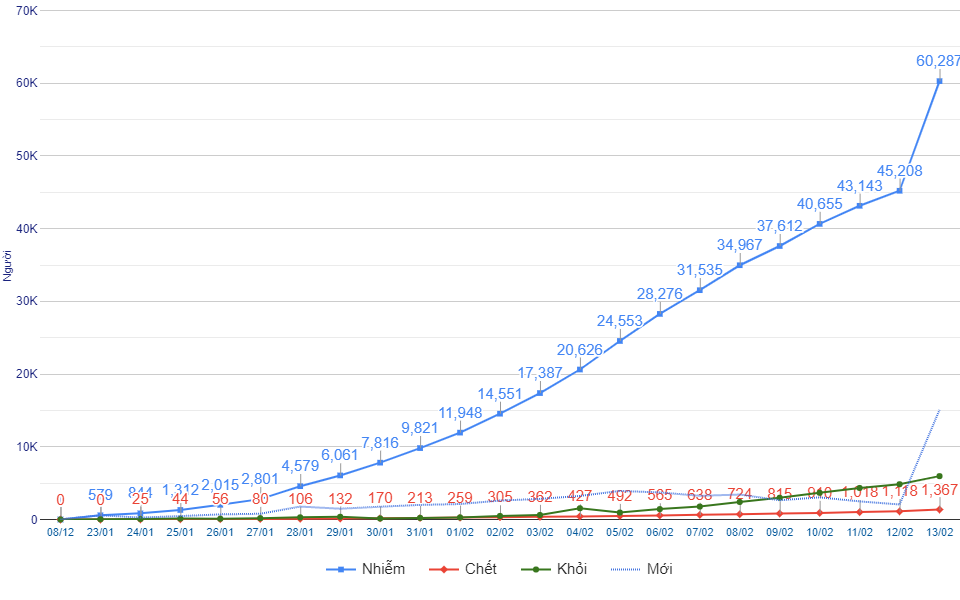
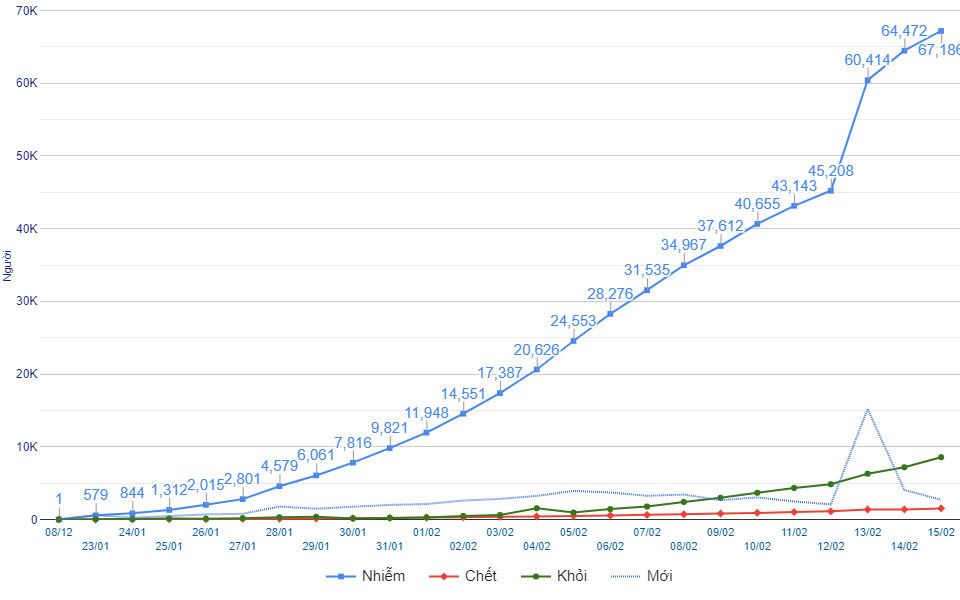
delete tabletopjs, update chart image

Changed region(s): [[0.0312, 0.27, 1.0, 0.99], [0.875, 0.03, 1.0, 0.15]]

diff --git a/app.min.js b/app.min.js
@@ -1,1 +1,1 @@
-function getData(){var URL="1apbJy54knVUXcKpuerSrgkADdZaGJ05Xh3pqkhHZZsI";Tabletop.init({key:URL,callback:showInfo,simpleSheet:!0})}var hasComfirmed=[],dt;document.addEventListener("DOMContentLoaded",getData()),google.charts.load("current",{packages:["corechart","line"]});var cols=[];function showInfo(data){document.getElementById("updatetime").innerText!=data[0]["Cập nhật"]&&(dt=data,document.getElementById("updatetime").innerText=dt[0]["Cập nhật"],drawTable(),document.getElementById("map").innerHTML="",setMap(),google.charts.setOnLoadCallback(drawGraph))}function drawGraph(){var data=new google.visualization.DataTable;for(data.addColumn("string","Ngày"),data.addColumn("number","Nhiễm"),data.addColumn({type:"number",role:"annotation"}),data.addColumn("number","Chết"),data.addColumn({type:"number",role:"annotation"}),data.addColumn("number","Khỏi"),data.addColumn("number","Mới"),i=0;i<dt.length;i++){var nn=parseInt(dt[i]["Nghi Nhiễm"]),tv=parseInt(dt[i]["Tử vong"]),kb=parseInt(dt[i]["Khỏi bệnh"]);data.addRows([[dt[i]["Ngày"],nn,nn,tv,tv,kb,parseInt(dt[i]["Tăng nhiễm"])]])}var options={hAxis:{title:null,textStyle:{color:"#01579b",fontSize:11,fontName:"Arial"},titleTextStyle:{color:"#01579b",fontSize:11,fontName:"Arial",bold:!1,italic:!0},slantedTextAngle:90},vAxis:{title:"Người",textStyle:{color:"#1a237e",fontSize:12,bold:!1},titleTextStyle:{color:"#1a237e",fontSize:11,bold:!1,italic:!1},format:"short"},height:600,annotations:{0:{style:"point"}},chartArea:{left:40,top:10,width:"100%",height:"85%"},colors:["#4285f4","#ea4335","#38761d","#4374e0"],legend:{position:"bottom"},series:{0:{pointSize:6,pointShape:"square"},1:{pointSize:6,pointShape:"diamond"},2:{pointSize:4,pointShape:"circle"},3:{lineDashStyle:[1,1]}}},chart=new google.visualization.LineChart(document.getElementById("chart_div"));google.visualization.events.addListener(chart,"ready",(function(){document.getElementById("imageChart").setAttribute("href",chart.getImageURI()),document.getElementById("imageChart").setAttribute("download",`ncov${document.getElementById("updatetime").innerText}.png`)})),chart.draw(data,options);for(var t=document.getElementsByClassName("toggle"),i=0;i<t.length;i++)t[i].onclick=function(e){toggle(this)},cols.length<4?cols[t[i].getAttribute("col")]=!0:0!=cols[t[i].getAttribute("col")]&&0!=cols[t[i].getAttribute("col")+1]||refreshChart();function toggle(el){var col=parseInt(el.getAttribute("col"));view=new google.visualization.DataView(data),1==cols[col]?(el.innerText=el.innerText.replace("ẨN","HIỆN"),cols[col]=!1):(el.innerText=el.innerText.replace("HIỆN","ẨN"),cols[col]=!0),refreshChart()}function refreshChart(){var setCols=[0,1,3,5,6];cols.forEach((function(c,i){1==c&&setCols.push(i)})),view=new google.visualization.DataView(data),view.setColumns(setCols.sort()),chart.draw(view,options)}}async function drawTable(){var html="",news="";hasComfirmed={};for(var lastData=dt[dt.length-1],i=dt.length-1;i>=0;i--){if(html+="<tr><td>"+dt[i]["Ngày"]+"</td><td>"+dt[i]["Nghi Nhiễm"]+" ("+dt[i]["Nhiễm"]+")</td><td>"+dt[i]["Tử vong"]+" ("+dt[i]["Chết"]+")</td><td>"+dt[i]["Khỏi bệnh"]+" ("+dt[i]["Khỏi"]+")</td><td>"+dt[i]["Tăng nhiễm"]+"</td></tr>",""!=dt[i]["Tỉnh thành"]){var obj={n:dt[i]["Ca Nhiễm"],c:dt[i]["Ca Chết"],k:dt[i]["Ca Khỏi"],opacity:parseInt(dt[i]["Ca Nhiễm"])/parseInt(lastData["Nhiễm"])*255};hasComfirmed[dt[i]["Tỉnh thành"]]=obj}i>1&&""!=dt[i]["Cập nhật"]&&(news+='<li class="tl-item"><div class="timestamp">'+dt[i]["Ngày"]+'</div><div class="item-title">'+dt[i]["Cập nhật"].replace(/\[(.*)\]\((https?:\/\/.*)\)/g,'<a href="$2" target="_blank">$1</a>').replace(/\*\*(.*?)\*\*/g,"<strong>$1</strong>").replace(/\*(.*?)\*/g,"<em>$1</em>").replace(/\~(.*?)\~/g,'<span style="font-weight:bold;color:#ea4335;">$1</span>').replace(/\n/g,"<br>")+"</div></li>")}document.getElementById("world").innerHTML=html,document.getElementById("timeline").innerHTML=news;var activecases=lastData["Nghi Nhiễm"]-lastData["Tử vong"]-lastData["Khỏi bệnh"];document.getElementById("activecases").innerHTML='<div class="row"><h3><strong>'+activecases+'</strong><small> người</small></h3></div><div class="row"><div class="one-half column">Nhẹ<h4 style="color:#8080FF;margin-top:0">'+(activecases-lastData["Nghiêm trọng"])+'</h4></div> <div class="one-half column">Nghiêm trọng<h4 style="color:#ea4335;margin-top:0">'+lastData["Nghiêm trọng"]+"</h4></div></div>",document.getElementById("vn-stats").innerHTML='<div class="one-third column">Nhiễm<h4>'+lastData["Nhiễm"]+'</h4></div><div class="one-third column vn-tv">Tử vong<h4>'+lastData["Chết"]+'</h4></div> <div class="one-third column vn-bp">Bình phục<h4>'+lastData["Khỏi"]+"</h4></div>"}setInterval(getData,6e4);const url="https://news.google.com/atom/search?q=corona%20when%3A1h&hl=vi&gl=VN&ceid=VN:vi",textarea=document.getElementById("feed");function getFeed(){feednami.load(url).then(feed=>{html="";for(var entries=feed.entries.sort((function(a,b){return new Date(b.date)-new Date(a.date)})),i=0;i<10;i++){var entry=entries[i];if(entry.date){var day=timeago(new Date(entry.date));html+=`<li>${entry.description} <time class="timeago" data="${entry.date}">${day}</time></li>`}else i--}document.getElementById("feed").innerHTML=html,setInterval(updateFeedTime,6e4)})}function updateFeedTime(){for(var x=document.getElementsByClassName("timeago"),i=0;i<x.length;i++)x[i].innerText=timeago(new Date(x[i].getAttribute("data")))}function fbShare(){var winTop=screen.height/2-260,winLeft=screen.width/2-175;return window.open("https://www.facebook.com/sharer/sharer.php?u=https://covid19.ga/","sharer","top="+winTop+",left="+winLeft+",toolbar=0,status=0,width=520,height=350"),!1}function setCookie(cname,cvalue,exdays){var d=new Date;d.setTime(d.getTime()+24*exdays*60*60*1e3);var expires="expires="+d.toUTCString();document.cookie=cname+"="+cvalue+";"+expires+";path=/"}function getCookie(cname){for(var name=cname+"=",ca=document.cookie.split(";"),i=0;i<ca.length;i++){for(var c=ca[i];" "==c.charAt(0);)c=c.substring(1);if(0==c.indexOf(name))return c.substring(name.length,c.length)}return""}function timeago(date){var seconds=Math.floor((new Date-date)/1e3),interval=Math.floor(seconds/31536e3);return interval>1?interval+" năm trước":(interval=Math.floor(seconds/2592e3))>1?interval+" tháng trước":(interval=Math.floor(seconds/86400))>1?interval+" ngày trước":(interval=Math.floor(seconds/3600))>1?interval+" giờ trước":(interval=Math.floor(seconds/60))>1?interval+" phút trước":"vài giây trước"}getFeed();
+var dt,cols=[];let sheeturl="https://spreadsheets.google.com/feeds/list/1apbJy54knVUXcKpuerSrgkADdZaGJ05Xh3pqkhHZZsI/omakdo1/public/values?alt=json";function getSheet(){fetch(sheeturl).then(res=>res.json()).then(json=>showData(json)).catch(err=>{throw err})}function showData(json){var data=[];json.feed.entry.forEach(entry=>{var row={};for(const[key,value]of Object.entries(entry))0==key.indexOf("gsx")&&(row[key]=value.$t);data.push(row)}),showInfo(data)}var hasComfirmed={};function showInfo(data){document.getElementById("updatetime").innerText!=data[0]["gsx$cậpnhật"]&&(dt=data,document.getElementById("updatetime").innerText=dt[0]["gsx$cậpnhật"],drawTable(),document.getElementById("map").innerHTML="",setMap(),google.charts.setOnLoadCallback(drawGraph))}function drawGraph(){var data=new google.visualization.DataTable;for(data.addColumn("string","Ngày"),data.addColumn("number","Nhiễm"),data.addColumn({type:"number",role:"annotation"}),data.addColumn("number","Chết"),data.addColumn({type:"number",role:"annotation"}),data.addColumn("number","Khỏi"),data.addColumn("number","Mới"),i=0;i<dt.length;i++){var nn=parseInt(dt[i]["gsx$nghinhiễm"]),tv=parseInt(dt[i]["gsx$tửvong"]),kb=parseInt(dt[i]["gsx$khỏibệnh"]);data.addRows([[dt[i]["gsx$ngày"],nn,nn,tv,tv,kb,parseInt(dt[i]["gsx$tăngnhiễm"])]])}var options={hAxis:{title:null,textStyle:{color:"#01579b",fontSize:11,fontName:"Arial"},titleTextStyle:{color:"#01579b",fontSize:11,fontName:"Arial",bold:!1,italic:!0},slantedTextAngle:90},vAxis:{title:"Người",textStyle:{color:"#1a237e",fontSize:12,bold:!1},titleTextStyle:{color:"#1a237e",fontSize:11,bold:!1,italic:!1},format:"short"},height:600,annotations:{0:{style:"point"}},chartArea:{left:40,top:10,width:"100%",height:"85%"},colors:["#4285f4","#ea4335","#38761d","#4374e0"],legend:{position:"bottom"},series:{0:{pointSize:6,pointShape:"square"},1:{pointSize:6,pointShape:"diamond"},2:{pointSize:4,pointShape:"circle"},3:{lineDashStyle:[1,1]}}},chart=new google.visualization.LineChart(document.getElementById("chart_div"));google.visualization.events.addListener(chart,"ready",(function(){document.getElementById("imageChart").setAttribute("href",chart.getImageURI()),document.getElementById("imageChart").setAttribute("download",`ncov${document.getElementById("updatetime").innerText}.png`)})),chart.draw(data,options);for(var t=document.getElementsByClassName("toggle"),i=0;i<t.length;i++)t[i].onclick=function(e){toggle(this)},cols.length<4?cols[t[i].getAttribute("col")]=!0:0!=cols[t[i].getAttribute("col")]&&0!=cols[t[i].getAttribute("col")+1]||refreshChart();function toggle(el){var col=parseInt(el.getAttribute("col"));view=new google.visualization.DataView(data),1==cols[col]?(el.innerText=el.innerText.replace("ẨN","HIỆN"),cols[col]=!1):(el.innerText=el.innerText.replace("HIỆN","ẨN"),cols[col]=!0),refreshChart()}function refreshChart(){var setCols=[0,1,3,5,6];cols.forEach((function(c,i){1==c&&setCols.push(i)})),view=new google.visualization.DataView(data),view.setColumns(setCols.sort()),chart.draw(view,options)}}async function drawTable(){var html="",news="";hasComfirmed={};for(var lastData=dt[dt.length-1],i=dt.length-1;i>=0;i--){if(html+="<tr><td>"+dt[i]["gsx$ngày"]+"</td><td>"+dt[i]["gsx$nghinhiễm"]+" ("+dt[i]["gsx$nhiễm"]+")</td><td>"+dt[i]["gsx$tửvong"]+" ("+dt[i]["gsx$chết"]+")</td><td>"+dt[i]["gsx$khỏibệnh"]+" ("+dt[i]["gsx$khỏi"]+")</td><td>"+dt[i]["gsx$tăngnhiễm"]+"</td></tr>",""!=dt[i]["gsx$tỉnhthành"]){var obj={n:dt[i]["gsx$canhiễm"],c:dt[i]["gsx$cachết"],k:dt[i]["gsx$cakhỏi"],opacity:parseInt(dt[i]["gsx$canhiễm"])/parseInt(lastData["gsx$nhiễm"])*255};hasComfirmed[dt[i]["gsx$tỉnhthành"]]=obj}i>1&&""!=dt[i]["gsx$cậpnhật"]&&(news+='<li class="tl-item"><div class="timestamp">'+dt[i]["gsx$ngày"]+'</div><div class="item-title">'+dt[i]["gsx$cậpnhật"].replace(/\[(.*)\]\((https?:\/\/.*)\)/g,'<a href="$2" target="_blank">$1</a>').replace(/\*\*(.*?)\*\*/g,"<strong>$1</strong>").replace(/\*(.*?)\*/g,"<em>$1</em>").replace(/\~(.*?)\~/g,'<span style="font-weight:bold;color:#ea4335;">$1</span>').replace(/\n/g,"<br>")+"</div></li>")}document.getElementById("world").innerHTML=html,document.getElementById("timeline").innerHTML=news;var activecases=lastData["gsx$nghinhiễm"]-lastData["gsx$tửvong"]-lastData["gsx$khỏibệnh"];document.getElementById("activecases").innerHTML='<div class="row"><h3><strong>'+activecases+'</strong><small> người</small></h3></div><div class="row"><div class="one-half column">Nhẹ<h4 style="color:#8080FF;margin-top:0">'+(activecases-lastData["gsx$nghiêmtrọng"])+'</h4></div> <div class="one-half column">Nghiêm trọng<h4 style="color:#ea4335;margin-top:0">'+lastData["gsx$nghiêmtrọng"]+"</h4></div></div>",document.getElementById("vn-stats").innerHTML='<div class="one-third column">Nhiễm<h4>'+lastData["gsx$nhiễm"]+'</h4></div><div class="one-third column vn-tv">Tử vong<h4>'+lastData["gsx$chết"]+'</h4></div> <div class="one-third column vn-bp">Bình phục<h4>'+lastData["gsx$khỏi"]+"</h4></div>"}document.addEventListener("DOMContentLoaded",getSheet()),google.charts.load("current",{packages:["corechart","line"]}),setInterval(getSheet,6e4);const url="https://news.google.com/atom/search?q=corona%20when%3A1h&hl=vi&gl=VN&ceid=VN:vi",textarea=document.getElementById("feed");function getFeed(){feednami.load(url).then(feed=>{html="";for(var entries=feed.entries.sort((function(a,b){return new Date(b.date)-new Date(a.date)})),i=0;i<10;i++){var entry=entries[i];if(entry.date){var day=timeago(new Date(entry.date));html+=`<li>${entry.description} <time class="timeago" data="${entry.date}">${day}</time></li>`}else i--}document.getElementById("feed").innerHTML=html,setInterval(updateFeedTime,6e4)})}function updateFeedTime(){for(var x=document.getElementsByClassName("timeago"),i=0;i<x.length;i++)x[i].innerText=timeago(new Date(x[i].getAttribute("data")))}function fbShare(){var winTop=screen.height/2-260,winLeft=screen.width/2-175;return window.open("https://www.facebook.com/sharer/sharer.php?u=https://covid19.ga/","sharer","top="+winTop+",left="+winLeft+",toolbar=0,status=0,width=520,height=350"),!1}function setCookie(cname,cvalue,exdays){var d=new Date;d.setTime(d.getTime()+24*exdays*60*60*1e3);var expires="expires="+d.toUTCString();document.cookie=cname+"="+cvalue+";"+expires+";path=/"}function getCookie(cname){for(var name=cname+"=",ca=document.cookie.split(";"),i=0;i<ca.length;i++){for(var c=ca[i];" "==c.charAt(0);)c=c.substring(1);if(0==c.indexOf(name))return c.substring(name.length,c.length)}return""}function timeago(date){var seconds=Math.floor((new Date-date)/1e3),interval=Math.floor(seconds/31536e3);return interval>1?interval+" năm trước":(interval=Math.floor(seconds/2592e3))>1?interval+" tháng trước":(interval=Math.floor(seconds/86400))>1?interval+" ngày trước":(interval=Math.floor(seconds/3600))>1?interval+" giờ trước":(interval=Math.floor(seconds/60))>1?interval+" phút trước":"vài giây trước"}getFeed();

diff --git a/app.js b/app.js
@@ -4,20 +4,47 @@ copyright 2020 huuthanhdtd.com
 */
 
 /* Get data from google spreadsheet */
-function getData() {
-  var URL = "1apbJy54knVUXcKpuerSrgkADdZaGJ05Xh3pqkhHZZsI";
-  Tabletop.init({ key: URL, callback: showInfo, simpleSheet: true });
-}
-var hasComfirmed = [];
-document.addEventListener('DOMContentLoaded', getData());
-google.charts.load('current', { packages: ['corechart', 'line'] });
-
 var dt;
 var cols = [];
+//delete tabletop.js
+// function getData() {
+//   var URL = "1apbJy54knVUXcKpuerSrgkADdZaGJ05Xh3pqkhHZZsI";
+//   Tabletop.init({ key: URL, callback: showInfo, simpleSheet: true });
+// }
+let sheeturl = 'https://spreadsheets.google.com/feeds/list/1apbJy54knVUXcKpuerSrgkADdZaGJ05Xh3pqkhHZZsI/omakdo1/public/values?alt=json';
+function getSheet() {
+  fetch(sheeturl)
+  .then(res => res.json())
+  .then(json => showData(json))
+  .catch(err => { throw err });
+}
+
+
+function showData(json) {
+  var data = [];
+  
+  json.feed.entry.forEach(entry => {
+    var row = {};
+      for (const [key, value] of Object.entries(entry)) {
+        if (key.indexOf('gsx') == 0)
+        row[key] = value.$t;
+      }
+      data.push(row);
+    });
+
+    showInfo(data);
+    // console.log(data);
+}
+
+var hasComfirmed = {};
+document.addEventListener('DOMContentLoaded', getSheet());
+google.charts.load('current', { packages: ['corechart', 'line'] });
+
+
 function showInfo(data) {
-  if (document.getElementById('updatetime').innerText != data[0]['Cập nhật']) {
+  if (document.getElementById('updatetime').innerText != data[0]['gsx$cậpnhật']) {
     dt = data;
-    document.getElementById('updatetime').innerText = dt[0]['Cập nhật'];
+    document.getElementById('updatetime').innerText = dt[0]['gsx$cậpnhật'];
     drawTable();
 
     document.getElementById('map').innerHTML = '';
@@ -38,10 +65,10 @@ function drawGraph() {
   data.addColumn('number', 'Mới');
   //data.addColumn({type: 'number', role: 'annotation'});
   for (i = 0; i < dt.length; i++) {
-    var nn = parseInt(dt[i]['Nghi Nhiễm'])
-    var tv = parseInt(dt[i]['Tử vong'])
-    var kb = parseInt(dt[i]['Khỏi bệnh'])
-    data.addRows([[dt[i]['Ngày'], nn, nn, tv, tv, kb, parseInt(dt[i]['Tăng nhiễm'])]]);
+    var nn = parseInt(dt[i]['gsx$nghinhiễm'])
+    var tv = parseInt(dt[i]['gsx$tửvong'])
+    var kb = parseInt(dt[i]['gsx$khỏibệnh'])
+    data.addRows([[dt[i]['gsx$ngày'], nn, nn, tv, tv, kb, parseInt(dt[i]['gsx$tăngnhiễm'])]]);
   }
 
 
@@ -136,27 +163,32 @@ async function drawTable() {
   hasComfirmed = {};
   var lastData = dt[dt.length - 1];
   for (var i = dt.length - 1; i >= 0; i--) {
-    html += '<tr><td>' + dt[i]['Ngày'] + '</td><td>' + dt[i]['Nghi Nhiễm'] + ' (' + dt[i]['Nhiễm'] + ')</td><td>' + dt[i]['Tử vong'] + ' (' + dt[i]['Chết'] + ')</td><td>' + dt[i]['Khỏi bệnh'] + ' (' + dt[i]['Khỏi'] + ')</td><td>' + dt[i]['Tăng nhiễm'] + '</td>' + '</tr>';
+    html += '<tr><td>' + dt[i]['gsx$ngày'] + '</td><td>' + dt[i]['gsx$nghinhiễm'] + ' (' + dt[i]['gsx$nhiễm'] + ')</td><td>' + dt[i]['gsx$tửvong'] + ' (' + dt[i]['gsx$chết'] + ')</td><td>' + dt[i]['gsx$khỏibệnh'] + ' (' + dt[i]['gsx$khỏi'] + ')</td><td>' + dt[i]['gsx$tăngnhiễm'] + '</td>' + '</tr>';
     //add Tỉnh thành
-    if (dt[i]['Tỉnh thành'] != '') {
-      var obj = { n: dt[i]['Ca Nhiễm'], c: dt[i]['Ca Chết'], k: dt[i]['Ca Khỏi'], opacity: parseInt(dt[i]['Ca Nhiễm']) / parseInt(lastData['Nhiễm']) * 255 }
-      hasComfirmed[dt[i]['Tỉnh thành']] = obj;
+    if (dt[i]['gsx$tỉnhthành'] != '') {
+      var obj = { n: dt[i]['gsx$canhiễm'], c: dt[i]['gsx$cachết'], k: dt[i]['gsx$cakhỏi'], opacity: parseInt(dt[i]['gsx$canhiễm']) / parseInt(lastData['gsx$nhiễm']) * 255 }
+      hasComfirmed[dt[i]['gsx$tỉnhthành']] = obj;
     }
     //show news
-    if (i > 1 && dt[i]['Cập nhật'] != '') {
-      news += '<li class="tl-item"><div class="timestamp">' + dt[i]['Ngày'] + '</div><div class="item-title">' + dt[i]['Cập nhật'].replace(/\[(.*)\]\((https?:\/\/.*)\)/g, '<a href="$2" target="_blank">$1</a>').replace(/\*\*(.*?)\*\*/g, '<strong>$1</strong>').replace(/\*(.*?)\*/g, '<em>$1</em>').replace(/\~(.*?)\~/g, '<span style="font-weight:bold;color:#ea4335;">$1</span>').replace(/\n/g, '<br>') + '</div></li>';
+    if (i > 1 && dt[i]['gsx$cậpnhật'] != '') {
+      news += '<li class="tl-item"><div class="timestamp">' + dt[i]['gsx$ngày'] + '</div><div class="item-title">' + dt[i]['gsx$cậpnhật'].replace(/\[(.*)\]\((https?:\/\/.*)\)/g, '<a href="$2" target="_blank">$1</a>').replace(/\*\*(.*?)\*\*/g, '<strong>$1</strong>').replace(/\*(.*?)\*/g, '<em>$1</em>').replace(/\~(.*?)\~/g, '<span style="font-weight:bold;color:#ea4335;">$1</span>').replace(/\n/g, '<br>') + '</div></li>';
     }
 
   }
   document.getElementById('world').innerHTML = html;
   document.getElementById('timeline').innerHTML = news;
   //Active cases
-  var activecases = lastData['Nghi Nhiễm'] - lastData['Tử vong'] - lastData['Khỏi bệnh'];
-  document.getElementById('activecases').innerHTML = '<div class="row"><h3><strong>' + activecases + '</strong><small> người</small></h3></div><div class="row"><div class="one-half column">Nhẹ<h4 style="color:#8080FF;margin-top:0">' + (activecases - lastData['Nghiêm trọng']) + '</h4></div> <div class="one-half column">Nghiêm trọng<h4 style="color:#ea4335;margin-top:0">' + lastData['Nghiêm trọng'] + '</h4></div></div>';
+  var activecases = lastData['gsx$nghinhiễm'] - lastData['gsx$tửvong'] - lastData['gsx$khỏibệnh'];
+  document.getElementById('activecases').innerHTML = '<div class="row"><h3><strong>' + activecases + '</strong><small> người</small></h3></div><div class="row"><div class="one-half column">Nhẹ<h4 style="color:#8080FF;margin-top:0">' + (activecases - lastData['gsx$nghiêmtrọng']) + '</h4></div> <div class="one-half column">Nghiêm trọng<h4 style="color:#ea4335;margin-top:0">' + lastData['gsx$nghiêmtrọng'] + '</h4></div></div>';
   //Vietnam
-  document.getElementById('vn-stats').innerHTML = '<div class="one-third column">Nhiễm<h4>' + lastData['Nhiễm'] + '</h4></div><div class="one-third column vn-tv">Tử vong<h4>' + lastData['Chết'] + '</h4></div> <div class="one-third column vn-bp">Bình phục<h4>' + lastData['Khỏi'] + '</h4></div>'
+  document.getElementById('vn-stats').innerHTML = '<div class="one-third column">Nhiễm<h4>' + lastData['gsx$nhiễm'] + '</h4></div><div class="one-third column vn-tv">Tử vong<h4>' + lastData['gsx$chết'] + '</h4></div> <div class="one-third column vn-bp">Bình phục<h4>' + lastData['gsx$khỏi'] + '</h4></div>'
 }
-setInterval(getData, 60000);
+setInterval(getSheet, 60000);
+
+var x = document.createElement("div");
+x.style.textAlign = "center";
[1 lines of base64/hex data omitted]
+document.body.appendChild(x); 
 
 /* Atom news */
 const url = 'https://news.google.com/atom/search?q=corona%20when%3A1h&hl=vi&gl=VN&ceid=VN:vi';

diff --git a/index.html b/index.html
@@ -145,17 +145,13 @@
 
   </div>
 
-  <div style="text-align: center;">
-    <p>Phát triển bởi nht@huuthanhdtd.com. Dữ liệu: Bộ Y tế, WorldOMeters</p>
-  </div>
-
   <script src="raphael.min.js"></script>
   <script src="map.min.js"></script>
   
-  <script src='https://cdnjs.cloudflare.com/ajax/libs/tabletop.js/1.5.1/tabletop.min.js'></script>
+  
   <script type="text/javascript" src="https://www.gstatic.com/charts/loader.js"></script>
   <script src="feednami.js"></script>
-  <script src="app.min.js"></script>
+  <script src="app.js"></script>
 
 </body>
 
